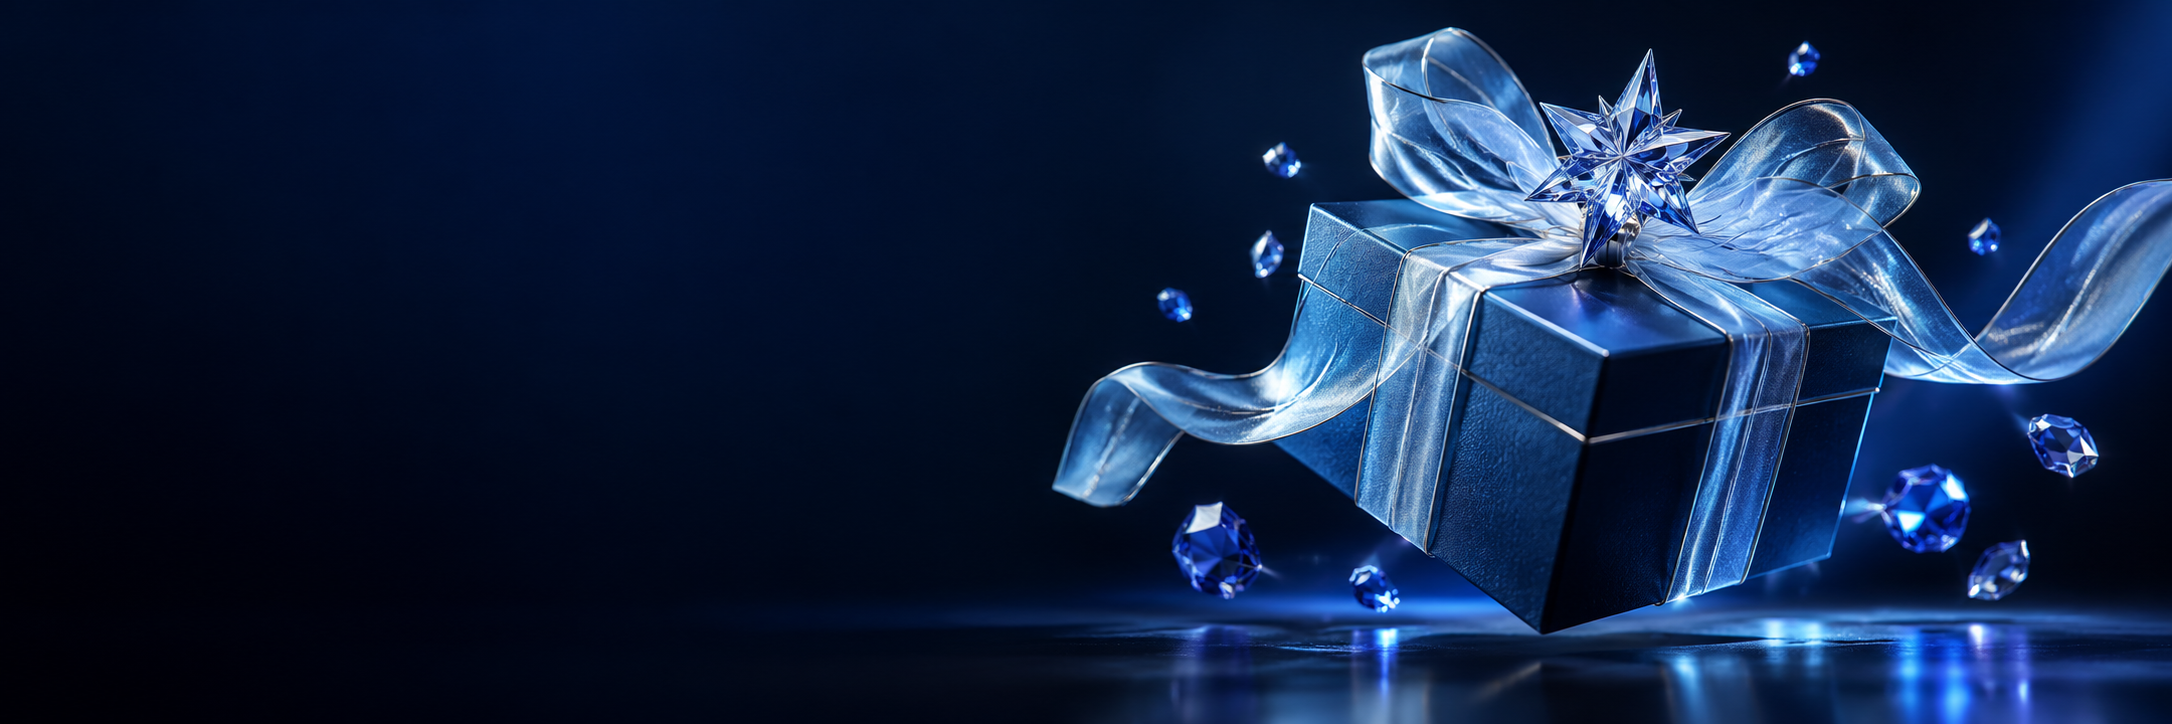
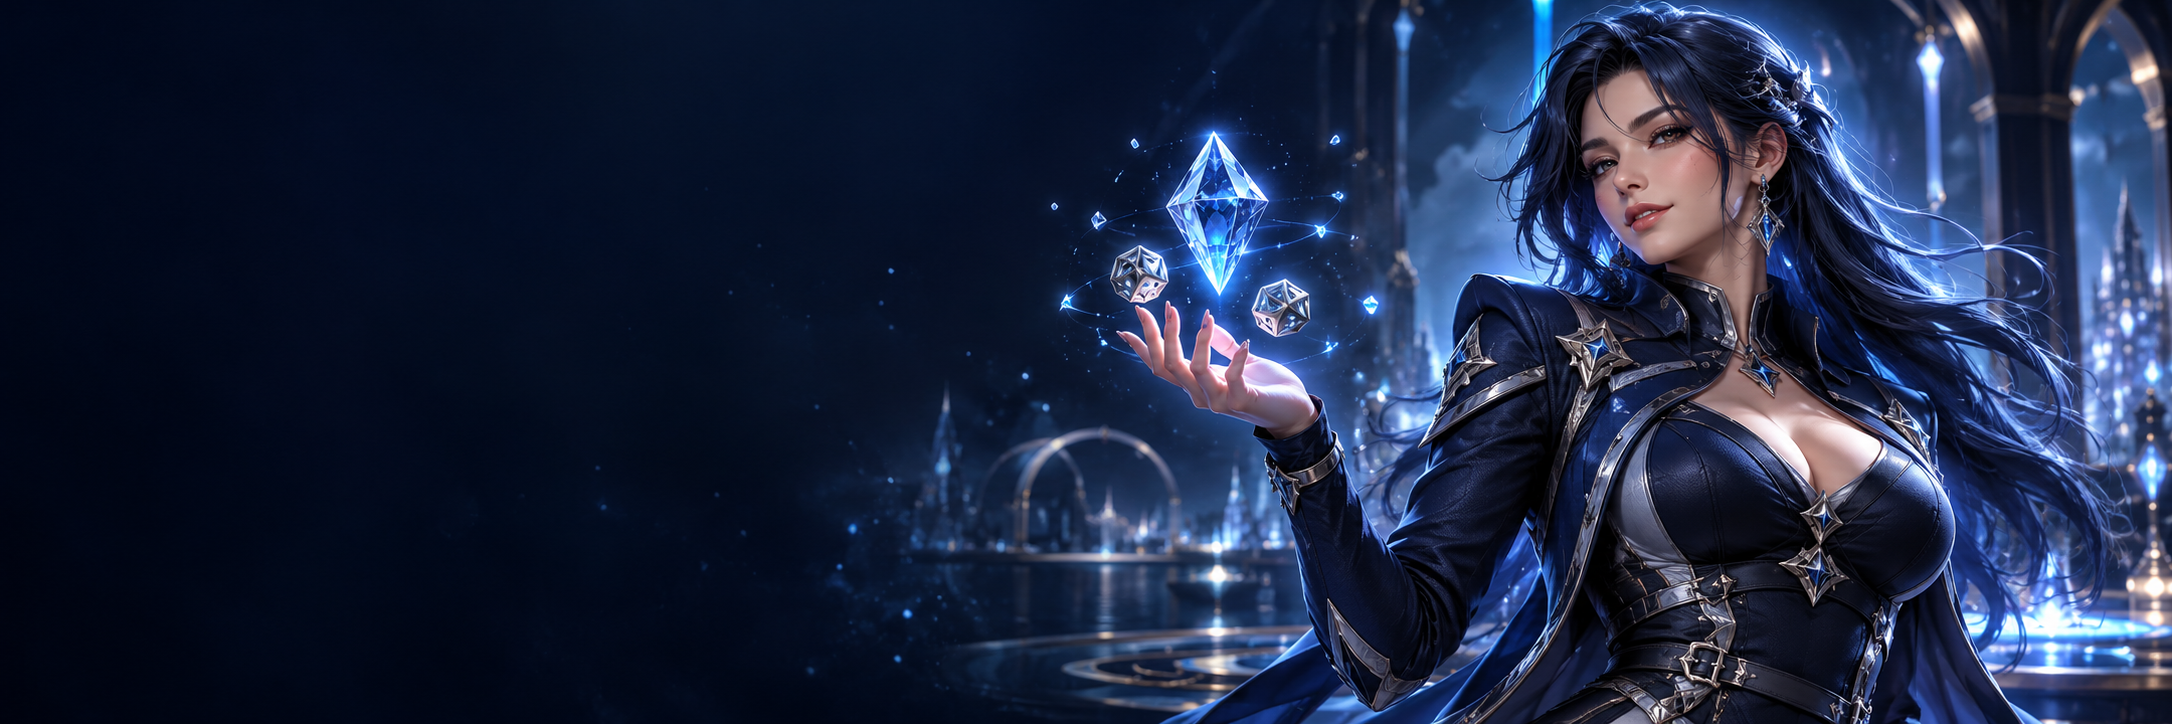
Add original 3D and anime character slider illustrations

diff --git a/app/globals.css b/app/globals.css
@@ -14,3 +14,5 @@
 .provider-status{font-size:11px;line-height:1.6;color:var(--muted);margin:20px 0 -8px}.provider-thumbnail{position:absolute;inset:0;width:100%;height:100%;object-fit:cover}.game-name.with-thumbnail{bottom:0;left:0;right:0;padding:35px 8px 24px;background:linear-gradient(transparent,#000d);font-family:Inter,Arial,sans-serif;font-size:clamp(10px,1.2vw,15px);line-height:1.2;letter-spacing:0}.game-card:has(.provider-thumbnail) .game-provider{z-index:1;bottom:8px;font-size:7px}.load-more{display:flex;margin:20px auto 0}.provider-game-modal{max-width:1100px;width:100%;padding:23px;overflow:hidden}.provider-game-modal h2{font-size:18px;margin:9px 40px 16px 0}.provider-game-frame{display:block;width:100%;height:70dvh;border:0;border-radius:12px;background:#08111d}.provider-game-modal small.muted{margin-top:9px}.provider-game-modal .game-status{padding:60px 20px}@media(max-width:700px){.provider-game-modal{padding:15px}.provider-game-frame{height:70dvh}.game-name.with-thumbnail{font-size:10px;padding:25px 5px 22px}.game-card:has(.provider-thumbnail) .game-provider{font-size:5px;letter-spacing:.4px}.provider-game-modal h2{font-size:16px}}
 .slider-photo{position:absolute;inset:0;width:100%;height:100%;object-fit:cover;object-position:center;z-index:-1}.hero:after{content:'';position:absolute;inset:0;background:linear-gradient(90deg,#06132755,transparent 65%);z-index:-1;pointer-events:none}.hero-text{width:64%}.hero-text h1{font-size:clamp(30px,3.4vw,47px)}@media(max-width:700px){.slider-photo{object-position:58% center}.hero:after{background:linear-gradient(90deg,#061327b8,#06132740 70%,transparent)}.hero-text{width:74%;padding-right:8px}.hero-text h1{font-size:29px}.hero-text p{max-width:180px}.hero .eyebrow{letter-spacing:1px}.header-actions .button{white-space:nowrap}.category-list button{white-space:nowrap}}
 
+
+@media(max-width:700px){.slider-photo{object-position:78% center}.hero-text{width:70%}.hero-text p{max-width:160px}}

diff --git a/docs/turkish-localization.md b/docs/turkish-localization.md
@@ -6,3 +6,5 @@ Pixbet arayüzünün varsayılan dili Türkçedir. Ana adres /tr/casino; eski Fr
 
 Sanal kupondaki ₺ işareti yalnızca demo arayüzünün gösterim birimidir. BigBang oyun içi para birimini veya banka işlemlerini değiştirmez.
 
+
+Slider görsellerinde Pixbet için özgün olarak üretilen yetişkin 3D ve anime esintili karakterler kullanılır.
